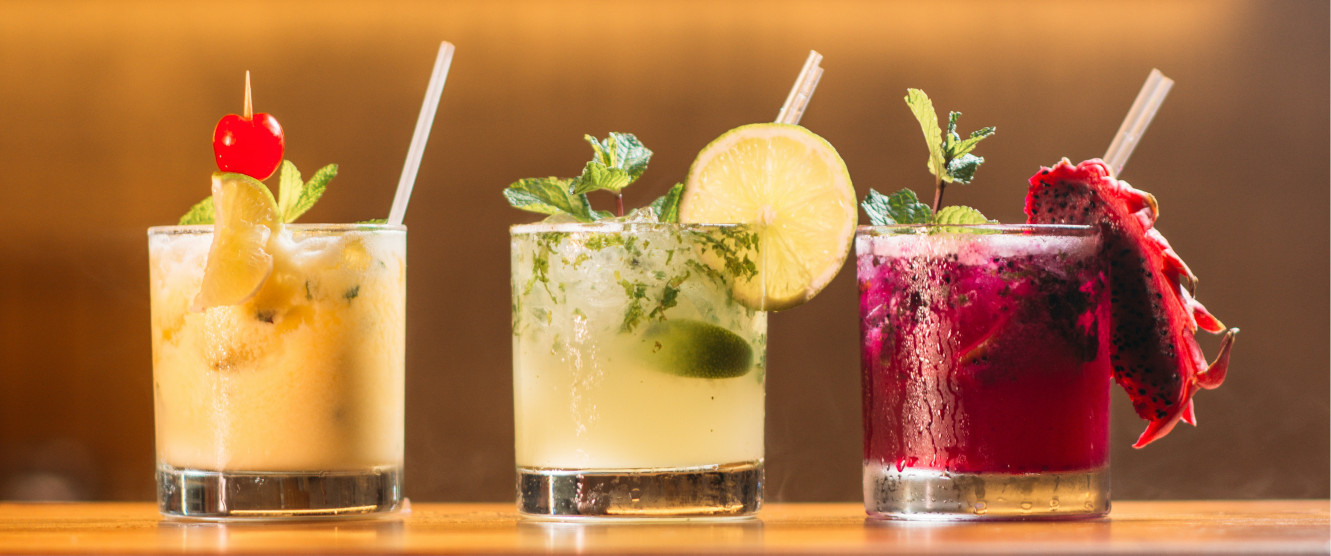
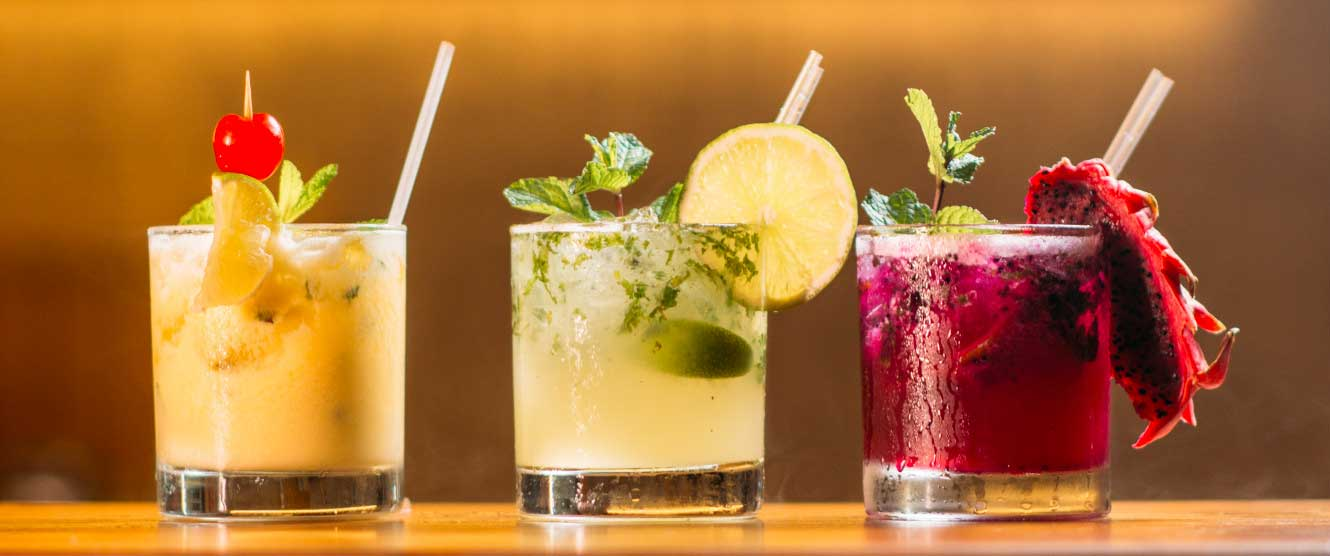
Aside image light

diff --git a/src/components/find-your-cocktail/FindYourCocktail.css b/src/components/find-your-cocktail/FindYourCocktail.css
@@ -11,7 +11,7 @@ h1, h2, h3 {
 }
 
 .bar {
-  background-image: url('../../images/bar-finder.png');
+  background-image: url('../../images/bar-finder.jpg');
   background-size: cover;
 }
 
